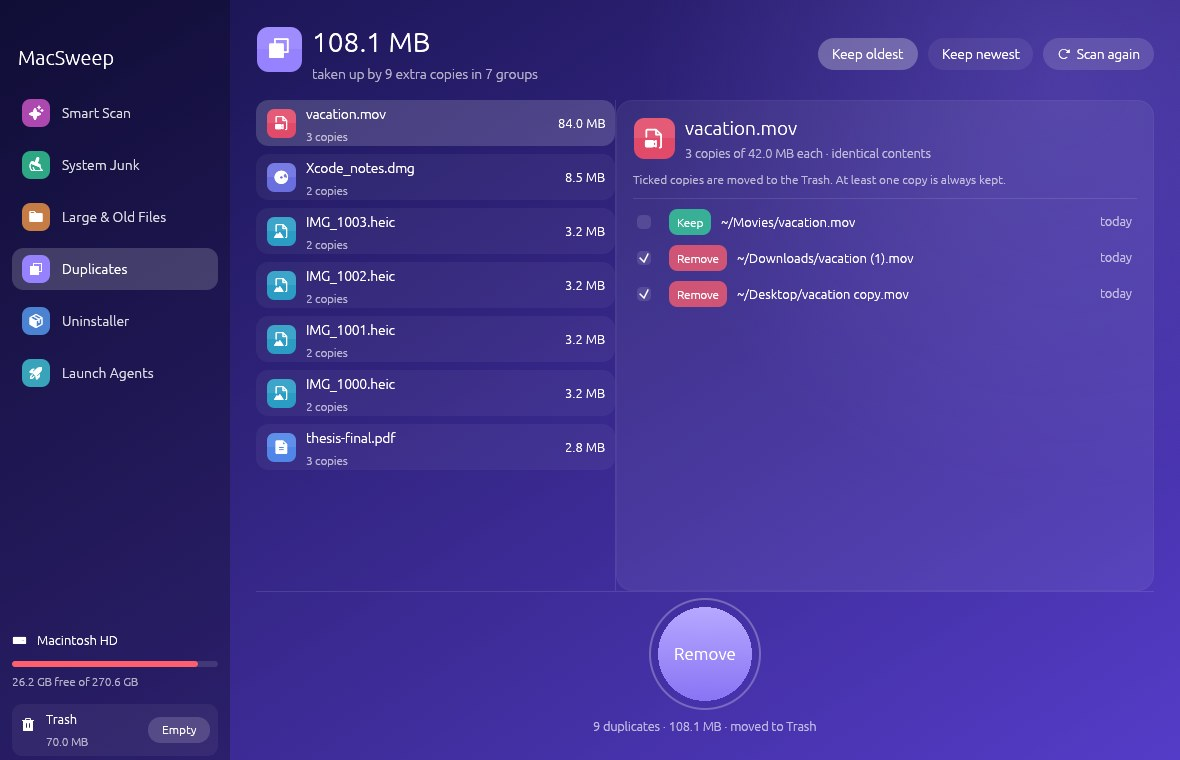
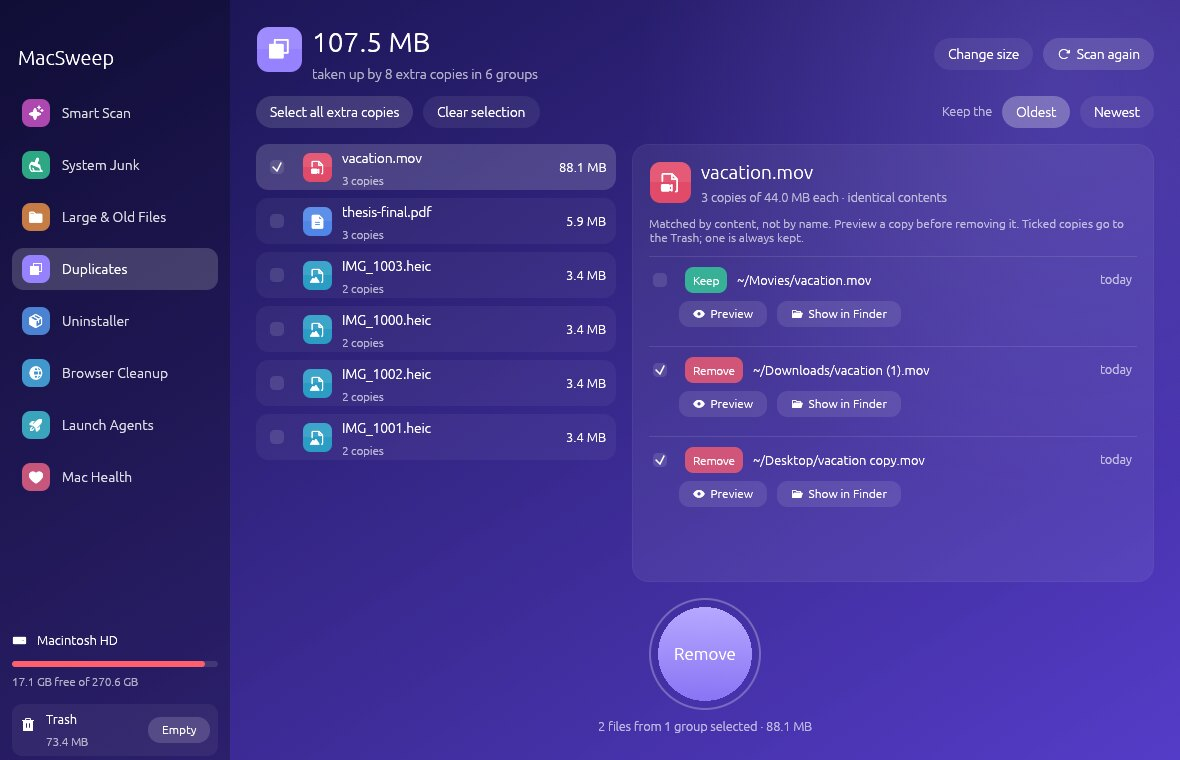
Website, README and notes: everything current for v0.3.0
- All eight older screenshots retaken with the current app (8-section
  sidebar), using invented apps and files; the share image is rebuilt
  with a real Mac Health screenshot and current points.
- README and website describe Browser Cleanup, Mac Health, the menu bar
  monitor and the update notice; new FAQs on web game saves, Chrome's AI
  model, running in the background and updating.
- New "Updating" section: releases are ad-hoc signed, so Full Disk
  Access has to be turned on again after replacing the app. Also in the
  release notes for people coming from 0.1 or 0.2.
- Size claims say "under 7 MB on Apple Silicon" (6.6 MB measured)
  instead of "about 7 MB"; the exact download size goes in after the
  universal release is built.
- Sitemap date, keywords, share texts and "How it's built" updated.

Claude-Session: https://claude.ai/code/session_01FBNwPyDJ19ki7eH9a1u8aY

diff --git a/docs/index.html b/docs/index.html
@@ -11,7 +11,7 @@
 <meta name="viewport" content="width=device-width, initial-scale=1">
 <title>MacSweep by nihal4 – Free, Open-Source Mac Cleaner in Rust (CleanMyMac Alternative)</title>
 <meta name="description" content="MacSweep is a free, open-source Mac cleaner written in Rust. Clean junk and caches, find large and duplicate files, fully uninstall apps, clean browsers site by site and check battery and SSD health, without ever touching your passwords, email or app data.">
-<meta name="keywords" content="MacSweep, nihal4, Mac cleaner, free Mac cleaner, open source Mac cleaner, CleanMyMac alternative, Mole alternative, Mac uninstaller, clean Mac cache, Rust macOS app">
+<meta name="keywords" content="MacSweep, nihal4, Mac cleaner, free Mac cleaner, open source Mac cleaner, CleanMyMac alternative, Mole alternative, Mac uninstaller, clean Mac cache, browser cache cleaner, Chrome AI model, Gemini Nano, Mac battery health, SSD health, Rust macOS app">
 <meta name="author" content="S. M. Nihal Ahmed (nihal4)">
 <link rel="canonical" href="https://macsweep-app.netlify.app/">
 <link rel="icon" type="image/png" href="icon.png">
@@ -21,14 +21,14 @@
 <meta property="og:type" content="website">
 <meta property="og:site_name" content="MacSweep">
 <meta property="og:title" content="MacSweep – free, open-source Mac cleaner in Rust">
-<meta property="og:description" content="Clean junk, find large files and fully uninstall apps. Free, MIT-licensed, ~7 MB, and built to never touch your data.">
+<meta property="og:description" content="Clean junk, find large files and duplicates, uninstall apps, clean browsers site by site and check battery and SSD health. Free, MIT-licensed, and built to never touch your passwords or email.">
 <meta property="og:url" content="https://macsweep-app.netlify.app/">
 <meta property="og:image" content="https://macsweep-app.netlify.app/social-preview.png">
 <meta property="og:image:width" content="1280">
 <meta property="og:image:height" content="640">
 <meta name="twitter:card" content="summary_large_image">
 <meta name="twitter:title" content="MacSweep – free, open-source Mac cleaner in Rust">
-<meta name="twitter:description" content="Clean junk, find large files and fully uninstall apps without touching your data.">
+<meta name="twitter:description" content="Clean junk, uninstall apps, clean browsers site by site and check battery and SSD health, without touching your passwords or email.">
 <meta name="twitter:image" content="https://macsweep-app.netlify.app/social-preview.png">
 
 <script type="application/ld+json">
@@ -41,7 +41,6 @@
   "applicationCategory": "UtilitiesApplication",
   "operatingSystem": "macOS 11 or later (Apple Silicon and Intel)",
   "softwareVersion": "0.3.0",
-  "fileSize": "7MB",
   "license": "https://opensource.org/licenses/MIT",
   "isAccessibleForFree": true,
   "offers": { "@type": "Offer", "price": "0", "priceCurrency": "USD" },
@@ -62,8 +61,12 @@
   "mainEntity": [
     {"@type": "Question", "name": "Is MacSweep free?", "acceptedAnswer": {"@type": "Answer", "text": "Yes. MacSweep is completely free and open source under the MIT license. There is no subscription, no paid tier, no ads and no telemetry. Its only network request is a check at launch for a newer version on GitHub, which sends nothing about you."}},
     {"@type": "Question", "name": "Is MacSweep safe? Will it delete my browser profiles or email?", "acceptedAnswer": {"@type": "Answer", "text": "No. Junk cleaning can only delete inside a fixed allowlist of cache, log and build folders, and every path is checked again right before deletion. Browser profiles (Chrome, Brave, Firefox, Safari), Mail, Messages, keychains, cookies, app containers and your documents are never touched by junk cleaning, and automated tests guard this. Browser Cleanup only removes what you tick, never passwords, cookies, history or bookmarks. Uninstalled apps, large files, launch agents and website data go to the Trash, so you can restore them."}},
+    {"@type": "Question", "name": "Will cleaning my browser delete my web game saves?", "acceptedAnswer": {"@type": "Answer", "text": "Only if you choose to. Browser Cleanup lists each website's stored data separately, which is where browser games keep saves and downloaded game files, and never ticks any of it for you. Passwords, cookies, history and bookmarks are never touched, and removed website data goes to the Trash."}},
+    {"@type": "Question", "name": "Can MacSweep remove the AI model Chrome downloaded?", "acceptedAnswer": {"@type": "Answer", "text": "Yes. Browser Cleanup lists the AI models each browser downloaded, such as Chrome's Gemini Nano, with their size and purpose. Chrome downloads Gemini Nano again unless On-device AI is turned off in its settings, so MacSweep has a button that opens that setting."}},
+    {"@type": "Question", "name": "Does MacSweep run in the background?", "acceptedAnswer": {"@type": "Answer", "text": "Only if you turn on the optional menu bar monitor, which is off by default. Measured on a MacBook Air M1 it uses about 2% of one core at live updates or 0.5% at every 5 seconds, and about 13 MB of memory. Turning it off removes it completely."}},
+    {"@type": "Question", "name": "How do I update MacSweep?", "acceptedAnswer": {"@type": "Answer", "text": "From v0.3.0, MacSweep shows in its sidebar when a new version is out. Replace the app in Applications, then turn Full Disk Access on again by removing MacSweep from the list and adding it back, because releases are not yet signed with an Apple developer certificate."}},
     {"@type": "Question", "name": "How is MacSweep different from Mole?", "acceptedAnswer": {"@type": "Answer", "text": "Mole is an excellent, much more mature open-source Mac cleaner, but its free version is a command-line tool. Its graphical app, Mole for Mac, is a separate paid product that requires macOS 14 or later. MacSweep is a free, open-source graphical app that runs on macOS 11 or later."}},
-    {"@type": "Question", "name": "Is MacSweep a CleanMyMac alternative?", "acceptedAnswer": {"@type": "Answer", "text": "Yes. MacSweep covers the core CleanMyMac jobs of cleaning system junk, finding large files, uninstalling apps with their leftovers and managing launch agents, for free and as open source. CleanMyMac has many more features, such as malware scanning and performance tools."}},
+    {"@type": "Question", "name": "Is MacSweep a CleanMyMac alternative?", "acceptedAnswer": {"@type": "Answer", "text": "Yes. MacSweep covers the core CleanMyMac jobs of cleaning system junk, finding large files and duplicates, uninstalling apps with their leftovers, cleaning browsers and managing launch agents, plus battery and SSD health, for free and as open source. CleanMyMac has many more features, such as malware scanning and performance tools."}},
     {"@type": "Question", "name": "Which Macs does MacSweep support?", "acceptedAnswer": {"@type": "Answer", "text": "MacSweep is a universal app that runs natively on Apple Silicon (M1, M2, M3, M4 and later) and Intel Macs with macOS 11 Big Sur or later."}},
     {"@type": "Question", "name": "Is this the same as other projects called MacSweep?", "acceptedAnswer": {"@type": "Answer", "text": "No. Several unrelated projects share the name. This MacSweep is the Rust app by nihal4, published at github.com/nihal4/macsweep and listed in awesome-mac and open-source-mac-os-apps."}}
   ]
@@ -222,15 +225,15 @@
   <div class="wrap hero">
     <div>
       <h1>The Mac cleaner that leaves your data alone.</h1>
-      <p class="lede">MacSweep is a free, open-source Mac cleaner written in Rust. It clears junk, finds forgotten large files and fully uninstalls apps, and it can never delete your passwords, email or app data.</p>
+      <p class="lede">MacSweep is a free, open-source Mac cleaner written in Rust. It clears junk, finds forgotten large files and duplicates, fully uninstalls apps, cleans each browser site by site and shows your battery and SSD health. It can never delete your passwords, email or app data.</p>
       <div class="actions">
         <a class="btn btn-primary" href="https://github.com/nihal4/macsweep/releases/latest">Download for Mac</a>
         <a class="btn btn-ghost" href="https://github.com/nihal4/macsweep">View source on GitHub</a>
       </div>
-      <p class="fine">Free and MIT licensed. About 7 MB. Apple Silicon and Intel, macOS 11 or later.</p>
+      <p class="fine">Free and MIT licensed. Under 7 MB on Apple Silicon. Apple Silicon and Intel, macOS 11 or later.</p>
     </div>
     <img class="shot" src="smart-scan-results.jpg" width="1180" height="760"
-         alt="MacSweep Smart Scan showing 697 MB of junk found across caches, logs, Xcode data, developer caches, ML model caches and Trash, with a round Clean button">
+         alt="MacSweep Smart Scan showing 731 MB of junk found across caches, logs, Xcode data, developer caches, ML model caches and Trash, with a round Clean button">
   </div>
 
   <section id="safety">
@@ -248,6 +251,7 @@
             <li>npm and Gradle caches <span>~/.npm, ~/.gradle</span></li>
             <li>ML model downloads, opt-in <span>~/.cache/huggingface</span></li>
             <li>Trash <span>~/.Trash</span></li>
+            <li>Browser cache and AI models, if ticked <span>Browser Cleanup</span></li>
           </ul>
         </div>
         <div class="never">
@@ -344,6 +348,7 @@
         <li><div><strong>Download</strong> the latest <code>MacSweep-x.y.z.zip</code> from <a href="https://github.com/nihal4/macsweep/releases/latest">GitHub Releases</a>, unzip it and move MacSweep to Applications.</div></li>
         <li><div><strong>Allow it the first time.</strong> MacSweep isn't notarized by Apple yet, so macOS blocks the first launch. Open it once, then go to System Settings → Privacy &amp; Security and click <strong>Open Anyway</strong>. Or run <code>xattr -dr com.apple.quarantine /Applications/MacSweep.app</code> once in Terminal.</div></li>
         <li><div><strong>Turn on Full Disk Access</strong> in System Settings, Privacy &amp; Security, then relaunch MacSweep. It needs this to see the Trash and Mail attachments.</div></li>
+        <li><div><strong>Updating later?</strong> MacSweep tells you when a new version is out. Replace the app in Applications, then turn Full Disk Access on again: remove MacSweep from the list and add it back, because macOS treats each unsigned version as a new app.</div></li>
       </ol>
     </div>
   </section>
@@ -360,12 +365,28 @@
         <p>No. Junk cleaning can only delete inside a fixed allowlist of cache, log and build folders, and every path is checked again right before deletion. Browser profiles, Mail, Messages, keychains, cookies, app containers and documents are never touched by it, and automated tests guard this. Browser Cleanup removes a website's data only if you tick that site, and never passwords, cookies, history or bookmarks. Uninstalled apps, large files, launch agents and website data go to the Trash, so you can put them back.</p>
       </details>
       <details>
+        <summary>Will cleaning my browser delete my web game saves?</summary>
+        <p>Only if you choose to. Browser Cleanup lists each website's stored data separately, which is where browser games keep saves and downloaded game files, and never ticks any of it for you. Cache and AI models are listed apart. Passwords, cookies, history and bookmarks are never touched, and removed website data goes to the Trash.</p>
+      </details>
+      <details>
+        <summary>Chrome downloaded an AI model. Can MacSweep remove it?</summary>
+        <p>Yes. Browser Cleanup lists the AI models each browser downloaded, such as Chrome's Gemini Nano, with their size and purpose. Chrome downloads Gemini Nano again unless you turn off On-device AI in its settings, so MacSweep has a button that opens that setting.</p>
+      </details>
+      <details>
+        <summary>Does MacSweep run in the background?</summary>
+        <p>Only if you turn on the menu bar monitor in Mac Health. It's off by default, and it's a separate tiny helper that shows CPU, memory and free disk in the menu bar. Measured on a MacBook Air M1, it uses about 2% of one core at live updates or 0.5% at every 5 seconds, and about 13 MB of memory. Turning it off removes it completely.</p>
+      </details>
+      <details>
+        <summary>How do I update?</summary>
+        <p>From v0.3.0, MacSweep tells you in its sidebar when a new version is out. Download it, replace the app in Applications, then turn Full Disk Access on again: remove MacSweep from the list and add it back. Releases aren't signed with an Apple developer certificate yet, so macOS treats each version as a new app.</p>
+      </details>
+      <details>
         <summary>How is it different from Mole?</summary>
         <p>Mole is an excellent, much more mature open-source cleaner, but its free version runs in Terminal. Its graphical app, Mole for Mac, is a separate paid product for macOS 14 or later. MacSweep is a free, open-source graphical app that runs on macOS 11 or later.</p>
       </details>
       <details>
         <summary>Is it a CleanMyMac alternative?</summary>
-        <p>For the core jobs, yes: cleaning junk, finding large files, uninstalling apps with their leftovers and managing launch agents. CleanMyMac has many more features, such as malware scanning and performance tools.</p>
+        <p>For the core jobs, yes: cleaning junk, finding large files and duplicates, uninstalling apps with their leftovers, cleaning browsers and managing launch agents, plus battery and SSD health. CleanMyMac has many more features, such as malware scanning and performance tools.</p>
       </details>
       <details>
         <summary>Which Macs does it support?</summary>

diff --git a/README.md b/README.md
@@ -5,7 +5,7 @@
 # MacSweep
 
 **A free, open-source Mac cleaner written in Rust.**
-Clean junk, find big forgotten files, fully uninstall apps and remove orphaned background items, all from a ~7 MB native app.
+Clean junk, find big forgotten files and duplicates, fully uninstall apps, clean each browser site by site, and check your battery and SSD health, all from one small native app.
 
 [![Latest release](https://img.shields.io/github/v/release/nihal4/macsweep?label=download&color=c04fd0)](https://github.com/nihal4/macsweep/releases/latest)
 [![License: MIT](https://img.shields.io/badge/license-MIT-blue)](LICENSE)
@@ -25,7 +25,7 @@ Clean junk, find big forgotten files, fully uninstall apps and remove orphaned b
 
 - **Free and open source.** No subscription, no ads, no "upgrade to clean" paywall. Every line is right here.
 - **Safe by design.** It never touches your passwords, cookies, browser history, email or app data, and only removes a website's data if you tick that site (see [Safety](#safety--your-data-is-never-touched)).
-- **Tiny and fast.** One native Rust binary of about 7 MB. Scans use every CPU core, and nothing runs in the background unless you turn on the menu bar monitor.
+- **Tiny and fast.** A native Rust app, under 7 MB on Apple Silicon. It uses macOS's own fonts instead of bundling them. Scans use every CPU core, and nothing runs in the background unless you turn on the menu bar monitor.
 - **Private.** No accounts, no telemetry. Everything happens on your Mac. The only network request is one check at launch asking GitHub whether a newer version exists; nothing about you or your Mac is sent. To turn it off, create an empty file at `~/Library/Application Support/MacSweep/no-update-check`.
 
 ## Features
@@ -41,6 +41,7 @@ Clean junk, find big forgotten files, fully uninstall apps and remove orphaned b
 | 🚀 **Launch Agents** | Lists background helpers and flags **orphaned** ones whose app is already gone. |
 | ❤ **Mac Health** | Battery health (Apple's own Maximum Capacity and Condition, cycle count), SSD health (lifespan used, spare blocks, data written, errors) and system details. Every value comes from macOS itself and is [validated against Apple's tools](docs/health-validation.md). |
 | 📊 **Menu bar monitor** | Optional and off by default: live CPU, memory and free disk space in the menu bar, from a separate tiny helper. [Measured cost](CHANGELOG.md#v030): 2.2% of one core at live updates, 0.5% at every 5 s. |
+| 🔔 **Update notice** | When a new version is published, the sidebar tells you and links to it. One request to GitHub at launch; nothing about you is sent. |
 | 💾 **Live disk & Trash** | The sidebar always shows free space and Trash size, updates instantly after every clean, and has a one-click **Empty Trash**. |
 
 <table>
@@ -91,6 +92,14 @@ Clean junk, find big forgotten files, fully uninstall apps and remove orphaned b
 3. Open the app from Applications, not by running the binary in Terminal. From Terminal, the permission belongs to Terminal instead.
 </details>
 
+## Updating
+
+When a new version is out, MacSweep shows it in the sidebar (from v0.3.0 on; older versions can't). To update:
+
+1. Download the new zip from [Releases](https://github.com/nihal4/macsweep/releases/latest), unzip it, quit MacSweep, and replace the copy in **Applications**.
+2. **Turn Full Disk Access on again.** Releases aren't signed with an Apple developer certificate yet, so macOS treats each new version as a new app: in System Settings → Privacy & Security → Full Disk Access, remove MacSweep with **–**, add it again with **+**, and reopen it.
+3. If you use the menu bar monitor, it switches to the new version by itself.
+
 ## Safety — your data is never touched
 
 Some cleaners have wiped people's browser profiles and email. MacSweep is built so that **can't happen**:
@@ -136,9 +145,11 @@ Pull requests are welcome! Please read [CONTRIBUTING.md](CONTRIBUTING.md). The o
 - [Rust](https://www.rust-lang.org) with [egui](https://github.com/emilk/egui) (OpenGL), with no web view inside
 - [`jwalk`](https://crates.io/crates/jwalk) + [`rayon`](https://crates.io/crates/rayon) for parallel scanning
 - [`trash`](https://crates.io/crates/trash) for Finder-compatible Trash, [`icns`](https://crates.io/crates/icns) for app icons, [`plist`](https://crates.io/crates/plist) for app metadata
-- San Francisco (the system font) is memory-mapped instead of bundled
+- No bundled text fonts: San Francisco and the Mac's own fallback fonts are memory-mapped from disk; the icon font holds only the icons used
+- The menu bar monitor is a separate tiny native app (AppKit through [`objc2`](https://crates.io/crates/objc2)), so MacSweep itself doesn't stay open
+- Browser Cleanup reads Chrome's own indexes with a small read-only LevelDB reader, and website icons from the browser's icon database with the system SQLite
 
-Releases are built by GitHub Actions: push a tag such as `v0.2.0` and a universal `.app` is attached to a new release, with notes taken from [CHANGELOG.md](CHANGELOG.md).
+Releases are built by GitHub Actions: push a tag such as `v0.3.0` and a universal `.app` is attached to a new release, with notes taken from [CHANGELOG.md](CHANGELOG.md).
 
 ## License
 

diff --git a/CHANGELOG.md b/CHANGELOG.md
@@ -52,10 +52,16 @@ See what each browser keeps on your Mac, sorted into three groups, and choose ex
 - To turn it off, create an empty file at `~/Library/Application Support/MacSweep/no-update-check`.
 - Versions before 0.3.0 can't show this notice. If you know someone on 0.1 or 0.2, point them to the Releases page once.
 
+### Updating from 0.1 or 0.2
+Replace MacSweep in Applications with this version, then **turn Full Disk Access on again**: in System Settings → Privacy & Security → Full Disk Access, remove MacSweep with –, add it again with +, and reopen it. Releases aren't signed with an Apple developer certificate yet, so macOS treats each version as a new app.
+
 ### Security
 - Every system command is called by its full path (`/bin/launchctl`, `/usr/bin/osascript` …), so a changed `PATH` can't substitute another program.
 - The "Relaunch" button after granting Full Disk Access quoted the app's path unsafely for the shell; a folder name containing `$` or a backtick could run a command. Fixed.
 - The release pipeline pins every third-party GitHub Action to an exact commit, and CI runs with read-only permissions.
+
+### Smaller
+- The app is about 1.1 MB smaller (7.6 MB → 6.6 MB on Apple Silicon) with nothing lost: the icon font holds only the 37 icons used, and egui's bundled text fonts are replaced by the Mac's own (San Francisco, Helvetica, Apple Symbols, Arial Unicode, Menlo), which also draw Chinese, Japanese, Korean, Greek and Cyrillic file names the old fonts couldn't.
 
 ### Development
 - `main` is protected: every change goes through a pull request, and CI (formatting, tests, app build) must pass.
